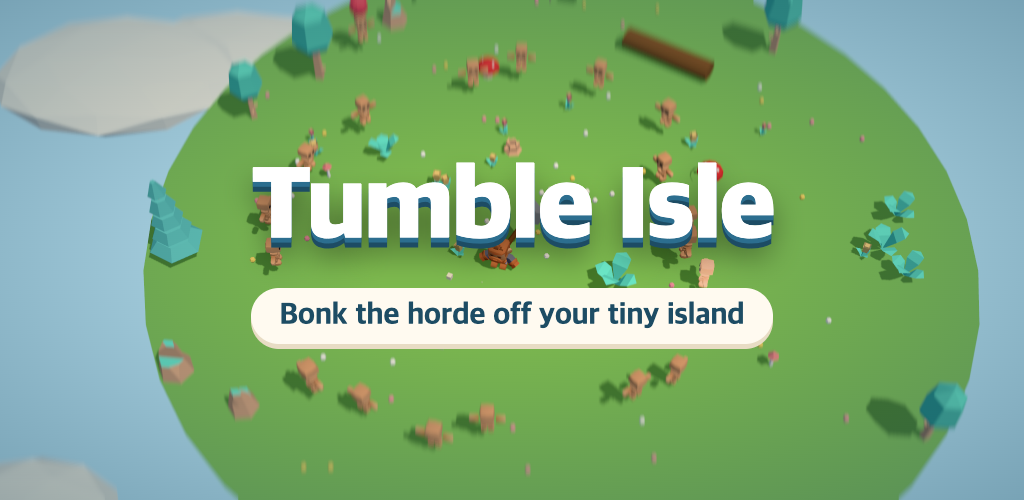
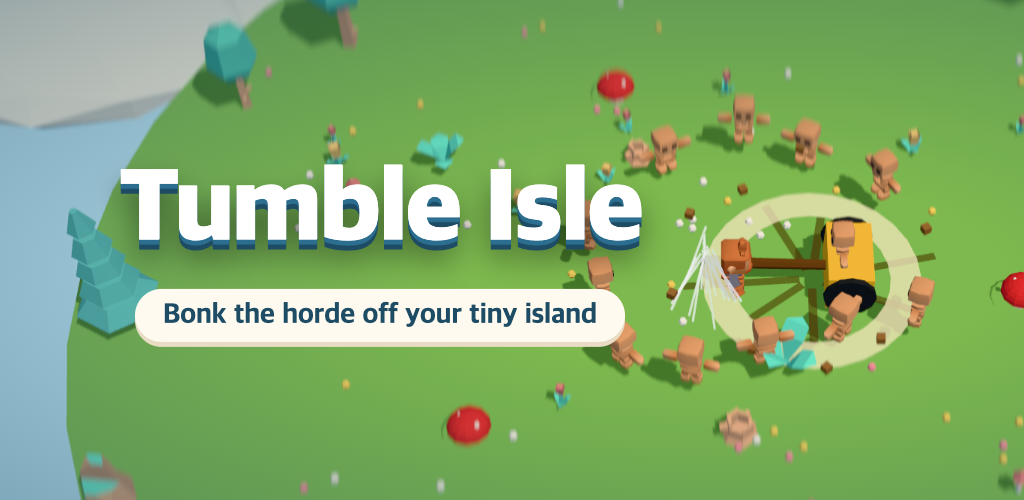
Play 스토어 스크린샷 8장·그래픽 이미지를 무기 8종 기준으로 다시 찍음, 오늘 저녁 인계 정리
- store/play/{kr,en} 8장(무기 4칸·무기 시트 추가), 그래픽 이미지에 대형 해머
- scripts/capture-store.mjs 8장 구성, 촬영용 __demo.freeze()
- HANDOFF 최신·TODO·작업 기록: 무기 8종(결정 082~089)과 사용자 확인할 것

diff --git a/src/main.ts b/src/main.ts
@@ -2403,8 +2403,10 @@ const DEV = import.meta.env.MODE !== 'release';
 const DEBUG = DEV && new URLSearchParams(location.search).has('debug'); // 프레임 수 글씨는 주소에 ?debug일 때만(결정 079)
 hud.dev.hidden = !DEBUG;
 let last = performance.now(), frames = 0, fpsAt = last, fps = 0;
+let frozen = false; // 개발 훅 freeze: 스토어 촬영 때 그 순간을 그대로 멈춘다(renderOnce로만 그림)
 function frame(now: number) {
   requestAnimationFrame(frame);
+  if (frozen) return void (last = now);
   const dt = Math.min(0.033, (now - last) / 1000);
   last = now;
   if (mode === 'play' || mode === 'bonus') {
@@ -2650,6 +2652,8 @@ if (DEV)
       /** 스테이지 번호(0~149)로 바로 가서 장 모델을 불러온다 */
       goStage: (no: number) => enterStage(no).then(() => showTitle()),
       /** 그리기 한 번 + 베스트 컷 찍기(화면 갱신이 멈춘 미리보기에서 시험용) */
+      /** 화면을 그 순간에 멈추거나(true) 다시 돌린다. 멈춘 동안은 renderOnce로만 그린다(스토어 촬영용) */
+      freeze: (on = true) => { frozen = on; },
       renderOnce: () => { draw(1 / 60, performance.now()); composer.render(); captureShot(); drawHud(); return bestShot.length; },
       // 그리기 한 번(후처리 포함)에 드는 평균 시간(ms). 창이 가려져 fps가 안 맞을 때 쓴다
       bench: (n = 30) => {

diff --git a/docs/HANDOFF.md b/docs/HANDOFF.md
@@ -1,6 +1,8 @@
 # 인계 문서
 
-> **최신(2026-11-17 에이전트 팀 첫 라운드)**: 기획·광고·디자인이 두 라운드 논의 → 난이도·디자인·광고가 차례로 구현 → 검수(결정 078~080). 레벨 업 카드 한 판 7~9장·아래 시트, 보너스 뒤 숨 고르기, 장 규칙 4개(해적 강풍·눈 얼음·과자 버섯·달 저중력), 상점 한 화면, 결과·시작 화면 단순화, 카메라 당기기, 개인정보 설정·광고 실패 처리. 강화 전부: 광고 2배 포함 약 33일, 미포함 약 46일. **다음 라운드 후보**: 장별 보스, 캐릭터 확장(장 보상 +10명·중복→경험치), 별 3개, 광고 보고 카드 들고 시작.
+> **최신(2026-11-17 저녁, 무기 8종 — 사용자 퇴근 중 자율 진행)**: 무기를 8종으로 늘리고(망치·뿅망치·대형 해머·스펀지 쌍검·프라이팬·야구방망이·펀치 막대·큰 부채, 장 끝마다 해금) 무기마다 준비·공속·후딜·피해·모양(부채꼴·원·직선)을 다르게 함. 스테이지마다 성질 8개 중 하나(떼·공중·뭉침·돌진·방패·묵직·행렬·단단)가 있어 추천 무기가 봇 기준 +24~32%p 유리(떼만 +12, 망치 유지). 무기 숙련 10단계, 「추천 무기 자동」 기본 켬, 시작 화면 무기 버튼·2×4 시트, 결과 「새 무기!」. 결정 082~089. 검수 지적 6건 반영 뒤 커밋·푸시, 앱 동기화 완료. **사용자 확인할 것**: ① 실기기에서 대형 해머 쿵(0.08초 멈춤)·방망이 손맛, 무기 차이가 확 느껴지는지 ② 업로드 키 보관 비공개 git 저장소 이름(STORE_RELEASE §1-2 빈칸) ③ Play 등록정보 입력·서명 AAB 업로드 진행 여부(제출은 안 함). 상세는 `docs/worklogs/2026-11-17.md` 끝.
+
+> **이전(2026-11-17 에이전트 팀 첫 라운드)**: 기획·광고·디자인이 두 라운드 논의 → 난이도·디자인·광고가 차례로 구현 → 검수(결정 078~080). 레벨 업 카드 한 판 7~9장·아래 시트, 보너스 뒤 숨 고르기, 장 규칙 4개(해적 강풍·눈 얼음·과자 버섯·달 저중력), 상점 한 화면, 결과·시작 화면 단순화, 카메라 당기기, 개인정보 설정·광고 실패 처리. 강화 전부: 광고 2배 포함 약 33일, 미포함 약 46일. **다음 라운드 후보**: 장별 보스, 캐릭터 확장(장 보상 +10명·중복→경험치), 별 3개, 광고 보고 카드 들고 시작.
 
 > **이전(2026-11-17 광고·직접 플레이)**: 보상형 광고 3곳(결정 073, 실제 ID 연결 결정 075 — 스토어 제출 빌드는 `npm run native:release`), 시뮬레이터 직접 플레이로 찾은 6가지 고침(결정 074).
 

diff --git a/docs/worklogs/2026-11-17.md b/docs/worklogs/2026-11-17.md
@@ -163,3 +163,10 @@
 ## 에이전트 팀 첫 라운드(결정 078~080)
 - 1라운드: 기획·광고·디자인이 따로 점검·제안 → 2라운드: 서로의 제안을 보고 의견(레벨 업 합치기, 미션 접기 조건, 광고 포함 30일 기준, 카메라 0.7) → PD 최종안.
 - 구현 순서(같은 main.ts라 한 번에 한 담당): 난이도 → 디자인 → 광고 → 검수. 검수 [중] 2건(2배 실패 뒤 잠김, 이어하기 닫기를 실패로 표시)은 광고 담당이, 상점 설명 잘림은 디자인 담당이 고침. 이어하기 칸 폭은 PD가 CSS 한 줄.
+
+## 무기 8종(결정 082~089, 사용자 퇴근 중 자율 진행)
+- 사용자 요청: "판마다 특징이 우세한 무기", "무기 종류·무기별 강화", "준비동작·공속·후딜 차이가 확실히", "무기는 언락", "난이도 담당이 난이도, 디자인·기획이 나머지".
+- 순서: 기획(설계 2판 `docs/WEAPONS.md`) → 난이도(동작·박자·숙련·성질, 봇 측정) → 기획(문서·스토어 문구를 코드 값에 맞춤) → 디자인(모양·연출·시트·결과) → 검수 → 디자인(지적 반영) → PD 커밋·푸시·`npm run native`.
+- 봇 결과: 무기 8종 승률은 대체로 망치 ±4. 성질별 추천 무기 우위 +24~32%p(떼만 +12). 처음~끝: 6판 중 3판 광고 2배 약 195판, 광고 없음 271~300판 넘음.
+- 검수 지적과 처리: 「바로 쓰기」가 「한 번 더」에서 안 먹음 → 직접 고른 무기는 스테이지 화살표를 누르기 전까지 유지(`pickRunWeapon` 테스트). 오늘의 섬 코인·숙련이 돌아갈 스테이지 장 번호로 계산됨 → 판의 장을 먼저 잡아 둠(코인 쪽은 예전부터 있던 버그). 숙련 문구 하한, 영어 「Foam Twins」, 팬 아이콘, 시작 화면 매 프레임 계산.
+- 확인 못 한 것: 실기기 손맛·성능, 판 안 연출 일부(떼 솟음·풍선 튕김·주황 번쩍)는 코드만.

diff --git a/store/README.md b/store/README.md
@@ -5,11 +5,11 @@
 ```
 store/
   play/
-    kr/            휴대폰 스크린샷 1080×1920(9:16) 6장 + feature-graphic-1024x500.png
+    kr/            휴대폰 스크린샷 1080×1920(9:16) 8장(`docs/STORE_LISTING.md` 6장 표 순서) + feature-graphic-1024x500.png
     en/            같은 구성(영어)
     icon-512.png   Play 고해상도 아이콘 512×512 (docs/art/icon.png를 줄인 것, 알파 없음)
   raw/             ↓ 위 이미지를 만드는 「원본 게임 캡처」(스토어에 직접 올리지 않음)
-    kr/ en/        405×720 화면을 3배로(1215×2160). 3-isle-*는 섬 4칸 묶음용, banner는 그래픽 이미지 배경(1024×500의 2배, 글씨 없는 촬영 모드)
+    kr/ en/        405×720 화면을 3배로(1215×2160). 4-w-*는 무기 4칸 묶음용(대형 해머·쌍검·방망이·부채), 6-isle-*는 섬 4칸 묶음용, banner는 그래픽 이미지 배경(1024×500의 2배, 글씨 없는 촬영 모드, 대형 해머 쿵)
 ```
 
 모든 PNG는 24bit(알파 없음)입니다. 확인: `sips -g pixelWidth -g pixelHeight -g hasAlpha store/play/*/*.png store/play/icon-512.png`
@@ -23,7 +23,7 @@ npm exec --yes --package=playwright@1.65.0 -- node scripts/capture-store.mjs
 # 문구만 바꿨을 때: raw를 그대로 쓰고 합성만(몇 초)
 npm exec --yes --package=playwright@1.65.0 -- node scripts/capture-store.mjs compose
 # 장면 하나만 다시 찍기(한·영 둘 다), 그 뒤 compose
-npm exec --yes --package=playwright@1.65.0 -- node scripts/capture-store.mjs raw 2-boss
+npm exec --yes --package=playwright@1.65.0 -- node scripts/capture-store.mjs raw 3-boss
 ```
 
 - 문구는 `scripts/capture-store.mjs` 맨 위 `SLIDES`(스크린샷)·`BANNER`(그래픽 이미지)에서 고칩니다. 한 줄에 안 들어가면 글자가 자동으로 작아집니다.

diff --git a/docs/TODO.md b/docs/TODO.md
@@ -15,6 +15,8 @@
 - ✅ 강화 6개 개편(결정 072). 실기기: 큰 망치가 커지는 게 보이는지, 시작 스킬 고르기가 번거롭지 않은지
 - ✅ 보상형 광고 3곳(결정 073), 직접 플레이 고침(결정 074)
 - ✅ 에이전트 팀 첫 라운드: 재미·광고·UI 개선(결정 078~080). 다음 라운드: 장별 보스, 캐릭터 확장(장 보상·중복→경험치, 모델 10개 애니메이션 확인됨), 별 3개, 광고 보고 카드 들고 시작. 실기기: 레벨 업 시트 손맛, 카메라 당기기, 개인정보 창·광고 닫기/실패 구분
+- ✅ 무기 8종·박자·숙련·스테이지 성질 8개·무기 시트(결정 082~089). 실기기: 무기 차이 손맛, 대형 해머 멈춤 느낌, 시트 뒤로 가기(안드로이드). 남은 것: 무기별 소리 높낮이, 쾅! 게이지 금빛, 뭉침 진짜 떨어짐 예고 시간(난이도), 떼 성질 추천 우위 보강
+- Play 출시(결정 081·084): 키 보관 비공개 저장소 이름(사용자) → 등록정보 입력 → `npm run native:release` → 서명 AAB → `npm run native`로 되돌림 → 업로드. 「검토를 위해 전송」은 사용자 확인 뒤
 - ✅ AdMob 앱·보상형 단위 생성·연결(결정 075). 출시 뒤: AdMob 앱에 스토어 매장 연결, 스토어 제출은 `npm run native:release`로
 - 실기기: 장마다 화면·성능(모델 불러오는 시간), 사람 기준 진행 속도. 후보: 출시 뒤 매달 새 장, 장 지도 화면
 - 실기기: 새 요소들의 손맛·난이도, 베스트 컷 공유 창이 iPhone 앱에서 뜨는지, ✅ 상점 캐릭터 초상화·캡슐 연출(결정 069)
